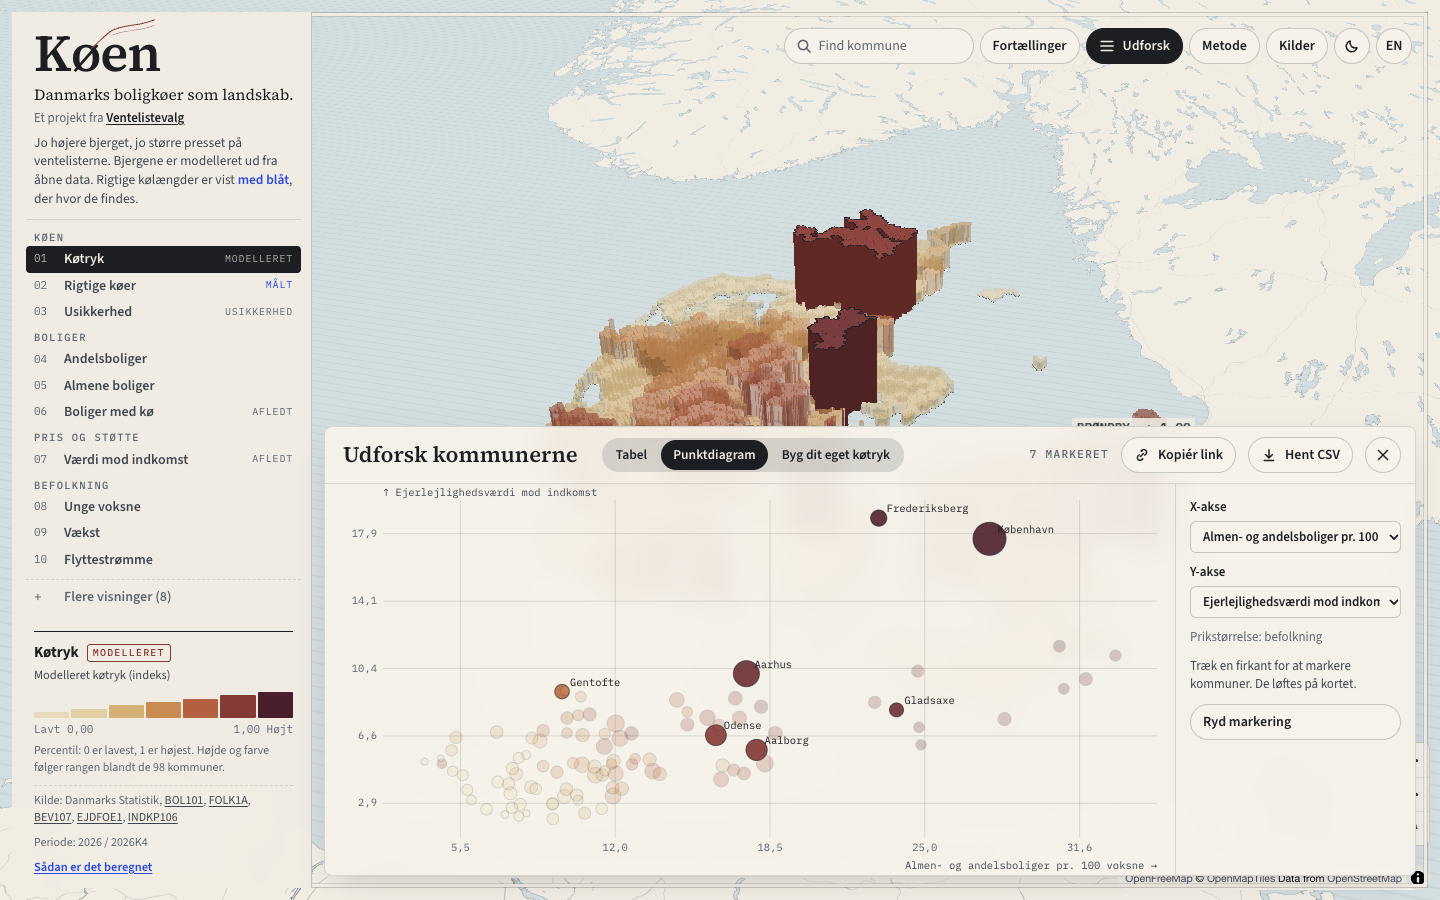
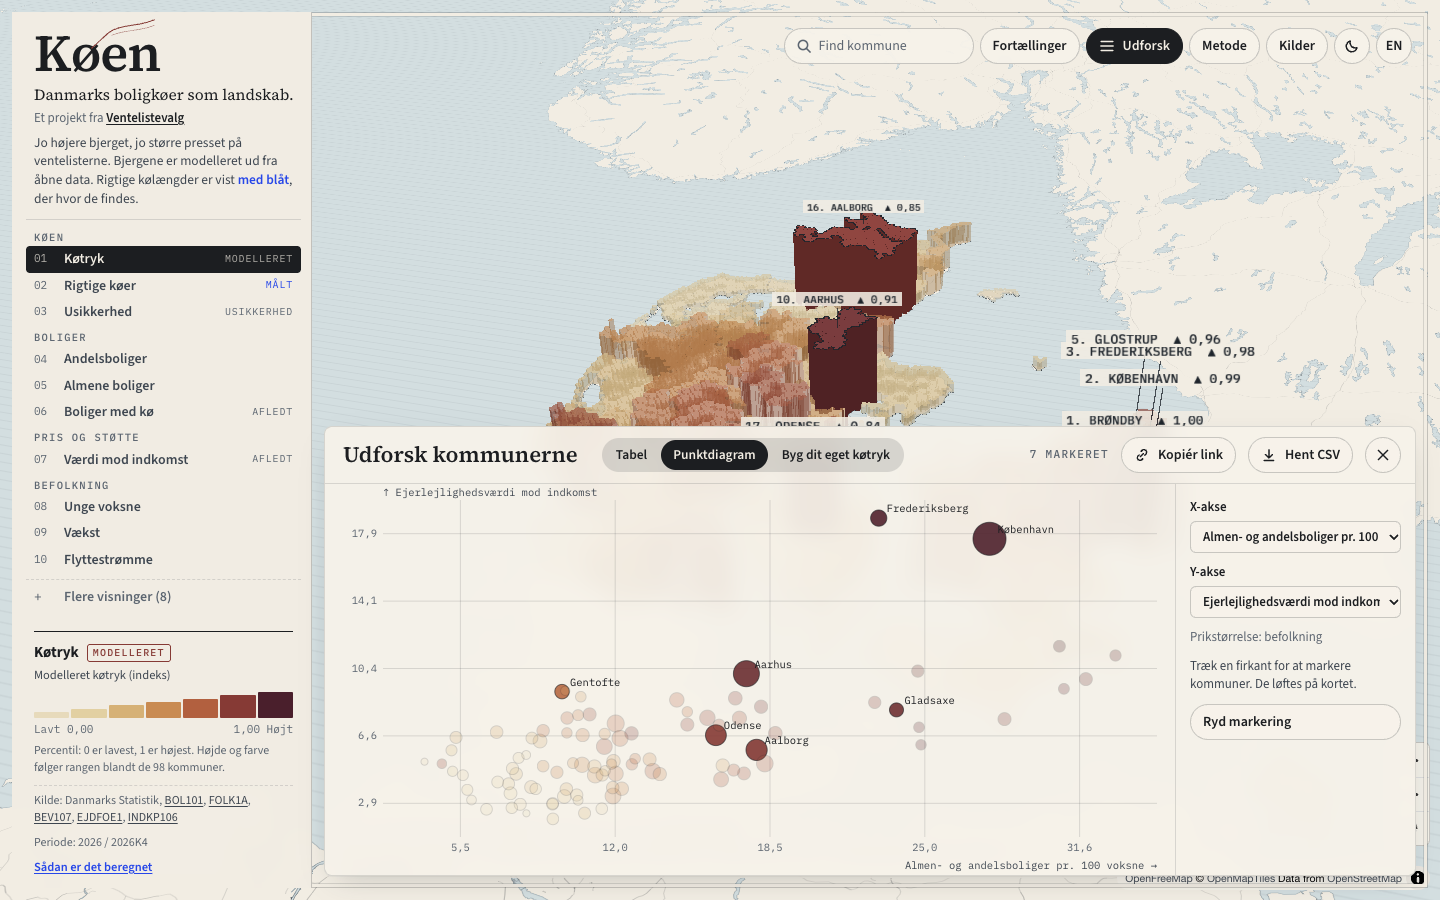
Docs: independent cross-check in METHOD.md, pass 4 build notes, retaken screenshots

diff --git a/docs/BUILD-NOTES.md b/docs/BUILD-NOTES.md
@@ -2,11 +2,61 @@
 
 Status: runs locally. Nothing is deployed, pushed or published. No analytics, no email capture, no cookies.
 
+## Pass 4: final pass, review fixes and design quick wins (2026-11-26, night)
+
+Commits on `build/v1`, nothing pushed, merged or deployed.
+
+### Inputs and what came of them
+
+- `../orch2/agy-review.md` (independent QA review) holds one line of intent ("I'll QA the built site ...") and no findings. There were no must-fix items in it to verify.
+- `docs/review/codex-pass2.md`: all items checked. Its fixes (Brøndby "six" to "five" in METHOD.md, the route fixture and `site/tests/ventelistevalg.test.ts`, `tests/recompute_validation.py`) were in the working tree uncommitted; they are committed now. The audit script crashed after the n filter below (a kommune with no price input divided by zero); it now scores such a kommune 0 like `30_index.combine`, and its numbers match `55_validate.py`. Its smoke-test block was a sandbox limit; `npm run test:smoke` passes here.
+- `../orch2/agy-method.md` (independent method cross-check, now with content; in pass 3 it held one line): every claim re-run on the cached DST data. What was adopted and rejected, with numbers, is in `docs/METHOD.md`, section "Independent cross-check".
+
+### Method and data changes
+
+- P1 and P2 need at least 50 EJDFOE1 holdings (drops Læsø, Ærø, Samsø from P1 and Læsø, Morsø, Ærø from P2). No top-15 rank changed.
+- Leave-one-out floor 0.8 to 0.85, plus a new `make check` gate: at least 7 of the top 10 survive when any one indicator is dropped (v2: 9 or 10).
+- `55_validate.py` reports clamp sensitivity (3.5, 4.0, none) and the leave-one-out top-10 overlap; both go to `indicators.json`.
+- Net migration (B07 + B10) re-checked and still rejected: the review's +9.9 per 1,000 for København is B10 alone; with B07 it is +1.2, rank 87.
+- S2 label corrected (only unoccupied holiday homes are excluded). Intro copy (DA, EN) names the actual v2 parts. `peopleOnLists` renamed `signups` (pipeline, site, PLAN.md). EJDFOE1 sources get separate titles. Aarhusbolig 8520 Lystrup and 8680 Ry no longer lose their town name. KK almene source shows the Open Data DK resource date (2015-12-08).
+- Method panel reads the LOO threshold from the data instead of hardcoding 0.8.
+
+### Design critique of the pass 3 screenshots (short)
+
+1. **The map did not say where the story is.** At country zoom only one spot label survived ("BRØNDBY 1,00"), because the top 8 sit within a few pixels in the Copenhagen suburbs. A reader could not find København, Frederiksberg or Aarhus, the three cities the copy talks about, and had no rank to compare. *Fixed:* labels carry their rank ("2. KØBENHAVN ▲ 0,99"); the no. 1 and the four largest cities (København, Aarhus, Odense, Aalborg) are always candidates; neighbouring labels stack on up to four leader heights instead of being dropped; leader heights are in screen pixels so the stack also works on a phone; near a side edge a label hangs inward; labels stay out from under the desktop card.
+2. **Validation table wrapped mid-list** ("Frederiksberg 16, Aarhus / 6") in a narrow mono column, so v1 and v2 could not be read across. *Fixed:* one city per line, ranks in bold.
+3. **Shot 06 showed only the bottom of the card**, so the København rank and band were not in any desktop shot. *Fixed:* 06 now shows the top of the card; 14 (Frederiksberg) still shows the CTA end.
+4. Not changed (bigger than a quick win): the default pitch still hides part of the Copenhagen suburbs behind North Zealand; at 390 px the Frederiksberg label touches the Aarhus label; label width is estimated (7 px per character), so very long names can still crowd.
+
+### Checks
+
+`npm run build`, `npm test` (9 Python + 6 Vitest), `npm run test:smoke` and `make check` (0 failures) pass at the end of this pass. `make data-offline` was re-run from the local cache. All 16 shots in `docs/shots/` retaken.
+
+### Ventelistevalg URLs used (all with utm_source=koen, utm_medium=map, utm_campaign=<view at click time>, utm_content=<placement>)
+
+`https://ventelistevalg.dk/`, `/fornyelsesradar`, `/vejledning`, `/datakilder`, `/lister/andels`, `/lister/almene`, `/lister/andels/bydel/` + `indre-by`, `noerrebro`, `oesterbro`, `vesterbro`, `amager`, `valby`, `vanloese`, `nordvest`, `frederiksberg`. Not linked because they answered 404 live in pass 3: `/ko-vagt`, `/ventelistetjek`, `/foreningsroentgen`.
+
+### What is left
+
+- Clamp: ±2.5 kept. With 4.0 København is no. 1, with no clamp København, Frederiksberg, Brøndby are 1 to 3 (top 10 unchanged in every case). Changing it is an owner call, see below.
+- Fonts: OFL licence files still missing next to the WOFF2 files.
+- Map chunk 554 KB gzip; Lighthouse and screen-reader passes not done; no full focus trap in dialogs.
+- DAGI boundaries, LBF data (needs permission), Eurostat population mask, press kit.
+- Fornyelsesradar price (99 kr/år) to re-check right before launch.
+
+### What the owner must approve
+
+1. Brøndby as no. 1 in the default ranking (it is a property of B1, see METHOD.md), or the clamp at 4.0 (København no. 1, Spearman 0.9995 against today), knowing that the second option was found after looking at the anchors.
+2. Whether P1 should stay "andel value against local income" (current) or change construct, as the cross-check proposes.
+3. Serving Køen at `ventelistevalg.dk/koen` via the `koen-integration` branch in `../andelplan` (rewrite plus CSP rule, off unless `KOEN_ORIGIN` is set), or a subdomain (needs a DNS change).
+4. Push, merge and deploy of `build/v1`. Second-model review before merge per the merge gate.
+5. The Ventelistevalg catalog layer (flag off; Waitly reuse rights not cleared).
+
 ## Pass 3: Køtryk v2, Ventelistevalg funnel, first screen (2026-11-26, evening)
 
 Owner decisions were delegated to the builder for this pass. Commits on `build/v1`, nothing pushed.
 
-Inputs: `../orch2/agy-method.md` holds one line ("I am starting by inspecting the files...") and no findings, so there was nothing to verify or apply from it. `docs/review/*.md` as before.
+Inputs: at the time of pass 3, `../orch2/agy-method.md` held one line ("I am starting by inspecting the files...") and no findings. It has content now; see pass 4. `docs/review/*.md` as before.
 
 ### 1. Ranking method (details in `docs/METHOD.md`)
 
@@ -15,7 +65,7 @@ Inputs: `../orch2/agy-method.md` holds one line ("I am starting by inspecting th
 - Weights: B1 30, D4 20, D5 10, D2 10, P1 10, P2 10, S2 10 (round, set before validation).
 - `pipeline/55_validate.py` (new, runs in `make process`): AUC and Spearman vs three anchors for v1 and v2, leave-one-anchor-out over a fixed family of 8 specs, share of weight draws keeping the anchors in the top 15, and a KK almene count check. `make check` fails if v2 AUC drops below 0.9 or below v1.
 - Result: København / Frederiksberg / Aarhus at **2 / 3 / 10** (v1: 19 / 16 / 6). Owner3 AUC 0.877 to 0.968; Ventelistevalg AUC 0.833 to 0.990; Aarhusbolig Spearman 0.50 to 1.00 (n = 3). Leave-one-anchor-out puts the held-out city at rank 2, 2 and 4. "Price only" scores higher on the anchors and was not adopted (METHOD.md says why).
-- Brøndby is no. 1. It is first or tied first in six of eight specs, so it is a property of the data, not a weight artefact, and it was not tuned away. The method panel says that the most almen suburbs rank high.
+- Brøndby is no. 1. It is first or tied first in five of eight specs (corrected from six in pass 4), so it is a property of the data, not a weight artefact, and it was not tuned away. The method panel says that the most almen suburbs rank high.
 - `pipeline/common.py` imports `requests` lazily, so offline steps run with the system Python.
 
 ### 2. Ventelistevalg integration (details in `docs/INTEGRATION.md`)
@@ -70,7 +120,7 @@ cd site && npm run shots                   # Playwright screenshots into docs/sh
 
 | Script | Does |
 | --- | --- |
-| `00_fetch_dst.py` | 12 StatBank queries over 9 tables (BOL101, FOLK1A, FRKM126, EJDFOE1, INDKP106, BYGV33, BOST63, FLY66, BOL106). Periods are resolved from `/tableinfo` at fetch time, never hardcoded. |
+| `00_fetch_dst.py` | 14 StatBank queries over 10 tables (BOL101, FOLK1A, FRKM126, EJDFOE1, INDKP106, BYGV33, BOST63, FLY66, BOL106, BEV107; BEV107 and the second EJDFOE1 query added in pass 3). Periods are resolved from `/tableinfo` at fetch time, never hardcoded. |
 | `01_fetch_boundaries.py` | geoBoundaries DNK ADM2 (Public Domain), names mapped to DST kommunekoder (3 name fixes). **Adapter seam**: `BOUNDARY_SOURCE=dagi` calls `fetch_dagi()`, a clear TODO for Datafordeler DAGI with credentials from env vars only. |
 | `02_fetch_queues.py` | Aarhusbolig XML (Ventelister, Afdelinger, Selskaber) and the KK almene boliger GeoJSON, both resolved through the CKAN API. 28 postcode centroids from OSM Nominatim (one request per postcode, cached, 1.2 s apart). |
 | `10_clean.py` | Tidy per-kommune series. DST `..` becomes null, nothing is zero-filled. |
@@ -84,7 +134,7 @@ cd site && npm run shots                   # Playwright screenshots into docs/sh
 
 Spot values match PLAN.md: BOL101 København EJER 20 occupied 2026 = 61,847; EJER 41 = 94,824; EJDFOE1 andelsbolig 2025 København 1,736,991 kr. and Frederiksberg 2,422,337 kr.
 
-Leave-one-out Spearman: D1 0.93, D2 0.97, D3 0.99, D4 0.93, P1 0.93, S1 0.98, S2 0.98.
+Leave-one-out Spearman (v1, first build): D1 0.93, D2 0.97, D3 0.99, D4 0.93, P1 0.93, S1 0.98, S2 0.98. For v2 see METHOD.md.
 
 Output size: `site/public/data` is 664 KB on disk (kommuner.json 49 KB raw, hex7.bin 92 KB, kk_almene.geojson 205 KB loaded only in the almene lens).
 
@@ -136,7 +186,7 @@ Output size: `site/public/data` is 664 KB on disk (kommuner.json 49 KB raw, hex7
 
 ## Design pass (2026-11-26)
 
-Full critique: `docs/review/design-critique.md`. The Gemini data review (`docs/review/gemini-data-review.md`) is an empty file, so there were no findings from it to apply; the data and licence fixes below come from my own check against `sources.json`.
+Full critique: `docs/review/design-critique.md`. The Gemini data review (`docs/review/gemini-data-review.md`) is a short note saying the review was not run (no Gemini auth on the build Mac), so there were no findings from it to apply; the data and licence fixes below come from my own check against `sources.json`.
 
 Applied:
 

diff --git a/docs/METHOD.md b/docs/METHOD.md
@@ -15,9 +15,9 @@ v1 put Vallensbæk, Brøndby and Høje-Taastrup on top and København at no. 19,
 | D4 | Andel 20 til 34 år | FOLK1A | 15 % | 20 % | mere = højere |
 | D5 | Indvandrede pr. 1.000 indbyggere, gennemsnit 2021 til 2025 | BEV107, FOLK1A | ny | 10 % | mere = højere |
 | D2 | Befolkningsvækst over 5 år | FOLK1A | 15 % | 10 % | mere = højere |
-| P1 | Markedsværdi af andelsboliger mod disponibel indkomst | EJDFOE1, INDKP106 | 15 % | 10 % | mere = højere |
-| P2 | Markedsværdi af ejerlejligheder mod disponibel indkomst | EJDFOE1 (type B), INDKP106 | ny | 10 % | mere = højere |
-| S2 | Boliger uden tilmeldte beboere (ekskl. fritidshuse) | BOL101 | 10 % | 10 % | mere = lavere |
+| P1 | Markedsværdi af andelsboliger mod disponibel indkomst (mindst 50 andelsboliger i opgørelsen) | EJDFOE1, INDKP106 | 15 % | 10 % | mere = højere |
+| P2 | Markedsværdi af ejerlejligheder mod disponibel indkomst (mindst 50 ejerlejligheder i opgørelsen) | EJDFOE1 (type B), INDKP106 | ny | 10 % | mere = højere |
+| S2 | Boliger uden tilmeldte beboere (ubeboede fritidshuse er en egen gruppe og tæller ikke med; beboede fritidshuse er i nævneren) | BOL101 | 10 % | 10 % | mere = lavere |
 | D1, D3, S1 | Voksne pr. bolig, fremskrivning 2036, nybyggeri | | 25 / 10 / 10 % | linse, ingen vægt | |
 
 Three groups, round weights: stock 30 %, demand 40 % (D4 20, D5 10, D2 10), price 20 % (P1 10, P2 10), slack 10 % (S2). The weights were set from what creates queues, not searched for. The validation below was run afterwards and is reported as is.
@@ -35,7 +35,9 @@ køtryk  = percentile rank of raw among the 98 kommuner, 0 to 1 (ties averaged)
 height  = køtryk ^ 1.6
 ```
 
-Uncertainty: 200 Dirichlet weight draws around the defaults (concentration 20, seed 20261126), min to max percentile per kommune. Leave-one-indicator-out Spearman must stay at or above 0.8 (`make check`); v2 values: B1 0.97, D4 0.98, D5 0.99, D2 0.99, P1 0.99, P2 0.99, S2 0.99.
+Uncertainty: 200 Dirichlet weight draws around the defaults (concentration 20, seed 20261126), min to max percentile per kommune. Leave-one-indicator-out Spearman must stay at or above 0.85 (`make check`, raised from 0.8); v2 values: B1 0.96, D4 0.98, D5 0.99, D2 0.99, P1 0.99, P2 0.99, S2 0.99. Because a full-98 Spearman can hide changes at the top, `make check` also requires that at least 7 of the top 10 survive when any one indicator is dropped; v2 keeps 9 or 10 (B1 9, D4 9, D2 9, the rest 10).
+
+P1 and P2 are left out (and their weight renormalised) where EJDFOE1 counts fewer than 50 holdings, because an average over a handful of dwellings is noise: P1 drops Læsø (0), Ærø (8) and Samsø (24); P2 drops Læsø (18), Morsø (38) and Ærø (44). The value lenses (Andelsværdi, Ejerlejlighedsværdi) still show the raw average. No top-15 rank changed.
 
 Code: `pipeline/20_indicators.py` (indicators and weights), `pipeline/30_index.py` (index), `pipeline/55_validate.py` (validation), `site/src/model.ts` (same index in the browser for the weight sliders).
 
@@ -92,7 +94,26 @@ AUC = probability that an anchor kommune ranks above a random other kommune (1 i
 | 14 | Høje-Taastrup | 0.87 | 0.77 to 0.95 |
 | 15 | Tårnby | 0.86 | 0.72 to 0.90 |
 
-Brøndby is first or tied first in six of the eight specs in the family, and second in v1. It has 30.7 almen and andel dwellings per 100 adults, 15 % population growth over five years, and andel and flat values that are high against local incomes. That is a real pattern in the data, not a bug, and it was not tuned away.
+Brøndby is first or tied first in five of the eight specs in the family, and second in v1. It has 30.7 almen and andel dwellings per 100 adults, 15 % population growth over five years, and andel and flat values that are high against local incomes. That is a real pattern in the data, not a bug, and it was not tuned away.
+
+## Independent cross-check (Antigravity/Gemini, 2026-11-26)
+
+`../orch2/agy-method.md` is an independent read-only review of the method. Every claim below was re-run on `data/raw/clean/dst.json` before it was adopted or rejected. Its section 2.1 describes v1 (D1 at weight 25 %), so points that v2 already handles are marked as such.
+
+**Adopted (verified)**
+
+- *Small-n EJDFOE1 averages.* Verified: andel n is 0 / 8 / 24 on Læsø / Ærø / Samsø, flat n is 18 / 38 / 44 on Læsø / Morsø / Ærø. P1 and P2 now need at least 50 holdings. The proposed empirical-Bayes shrinkage was not adopted: it adds a tuning constant (k = 300) for little gain once the n filter is in.
+- *Top-10 gate and a higher LOO floor.* Verified that full-98 Spearman is insensitive to the top tail (v1 passed with København at no. 19). Added the top-10 overlap check (at least 7 of 10) and raised the floor to 0.85. v2 passes both (min 0.96, overlap at least 9).
+- *Clamp sensitivity, as a report.* Verified: with the ±2.5 clamp, D4 (20 to 34 year olds) ties København (34.7 %, unclamped z 7.1) with Brøndby (22.2 %, z 2.7). `55_validate.py` now reports the index with the clamp at 3.5, 4.0 and none: Spearman against the default 0.9996, 0.9995 and 0.9993, and the same top 10 in all three. What changes is the very top: at 4.0 København is no. 1 and Brøndby no. 2; with no clamp København, Frederiksberg, Brøndby are 1 to 3 and Aarhus moves from 10 to 6. The default stays at 2.5. Widening it now, after seeing that it lifts the owner's three cities, would be choosing a parameter by the anchors, which is what this note says we do not do. It is listed for the owner to decide (BUILD-NOTES).
+- *Wording.* S2 said "ekskl. fritidshuse"; BOL101 only puts unoccupied holiday homes in their own group (BEBO 5000), occupied ones stay in. Label fixed. Intro copy now names the v2 parts (immigrants, growth, andel and flat value against income) instead of "nye tilflyttere" and "købe sig ud af køen". The export field `peopleOnLists` (it holds sign-ups, not people) is renamed `signups`. The two EJDFOE1 entries in `sources.json` now have their own titles. Aarhusbolig 8520 and 8680 lost their town name because a row with only the postnummer overwrote it; fixed (Lystrup, Ry). The KK almene entry in `sources.json` now gives the Open Data DK resource date (2015-12-08).
+
+**Rejected, with reason**
+
+- *Net migration (BEV107 B07 + B10) as the demand term.* The review says København has +9.9 per 1,000. That is B10 (net immigration) alone. B07 (net domestic moves) is negative for København every year 2021 to 2025 (-3,839 to -6,868), and B07 + B10 averages +1.2 per 1,000, rank 87 of 98 (Frederiksberg -0.4, rank 93). This confirms the reason it was not used above.
+- *Remove B1 (almen + andel stock).* The review shows correctly that inverting D1 puts Brøndby first (this note says the same: Brøndby is first or tied first in five of eight specs). The disagreement is about the question, not the data: Køen measures how many people queue, and people can only queue where the lists are. B1 stays; the limit is stated below.
+- *P1 over national instead of local income, and P1 switched to flats.* Dividing by one national number makes P1 the plain average value; that is a different construct (wealth level, not affordability), and P2 already carries the flat price. Not changed without the owner.
+- *Log transform of S2, floor area per person (BOL106) as S1, 20-quarter completions.* Each is defensible, none fixes a verified error, and together they would make v2 a different index on the day it was set. Kept as candidates.
+- *The review's own top 15 and LOO values* were computed for its proposed index, not for v2, so they are not comparable with the numbers here.
 
 ## Limits
 
